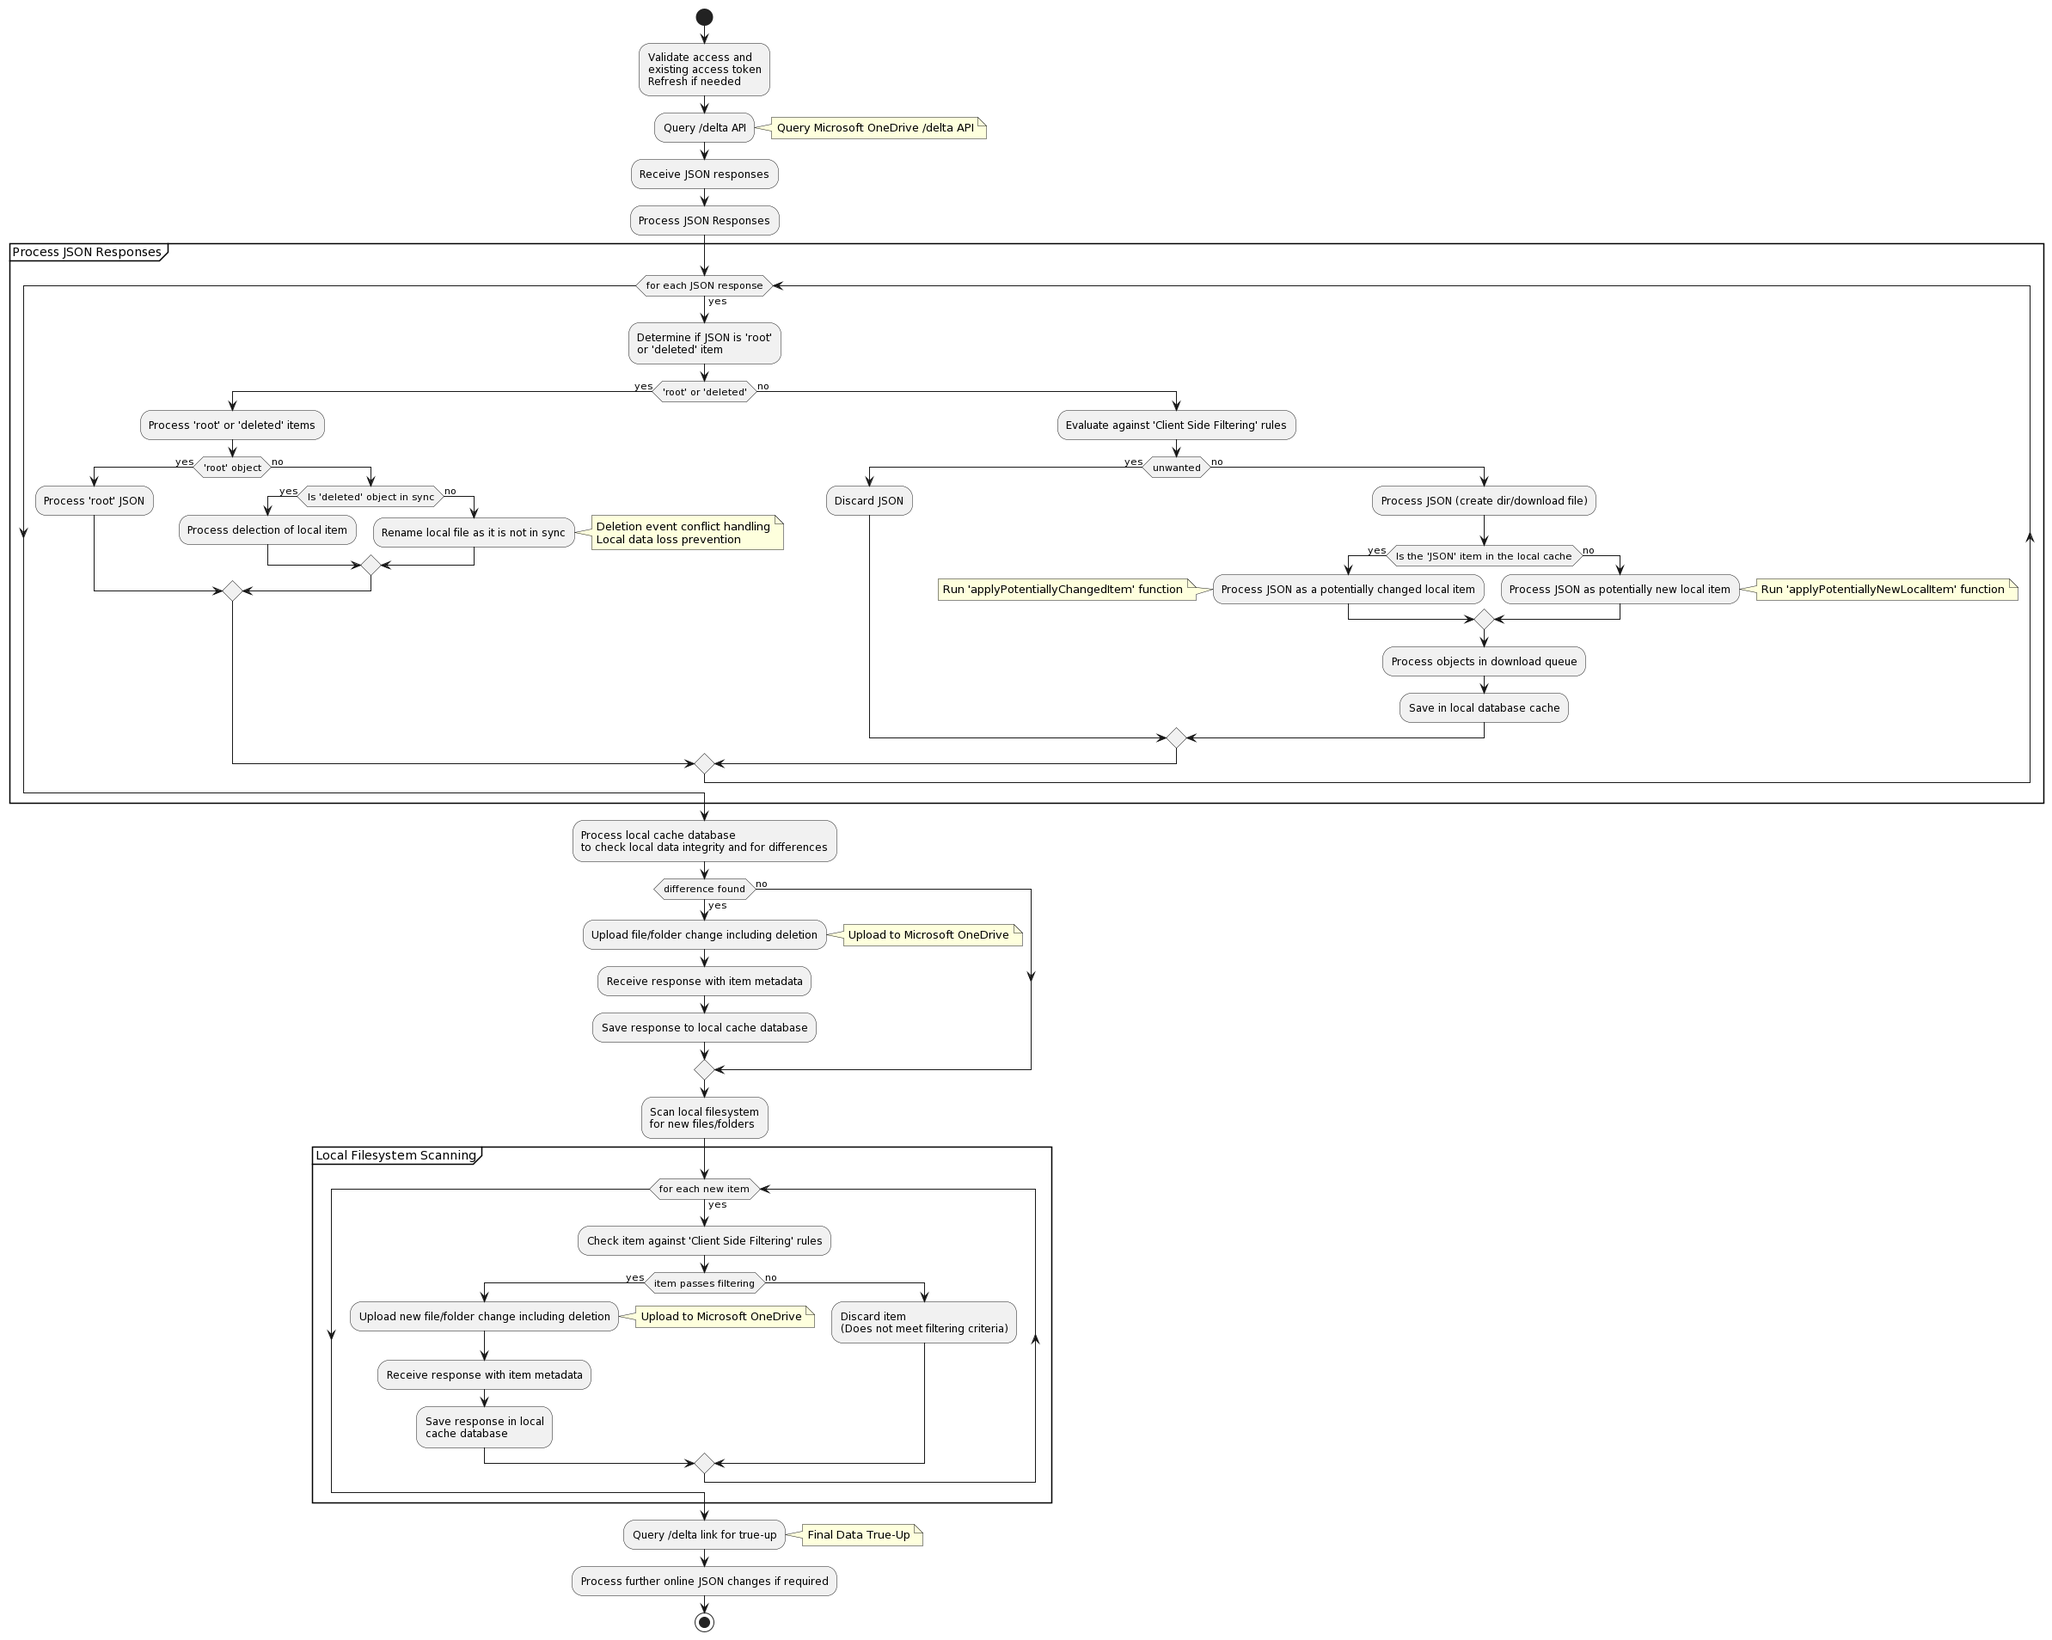
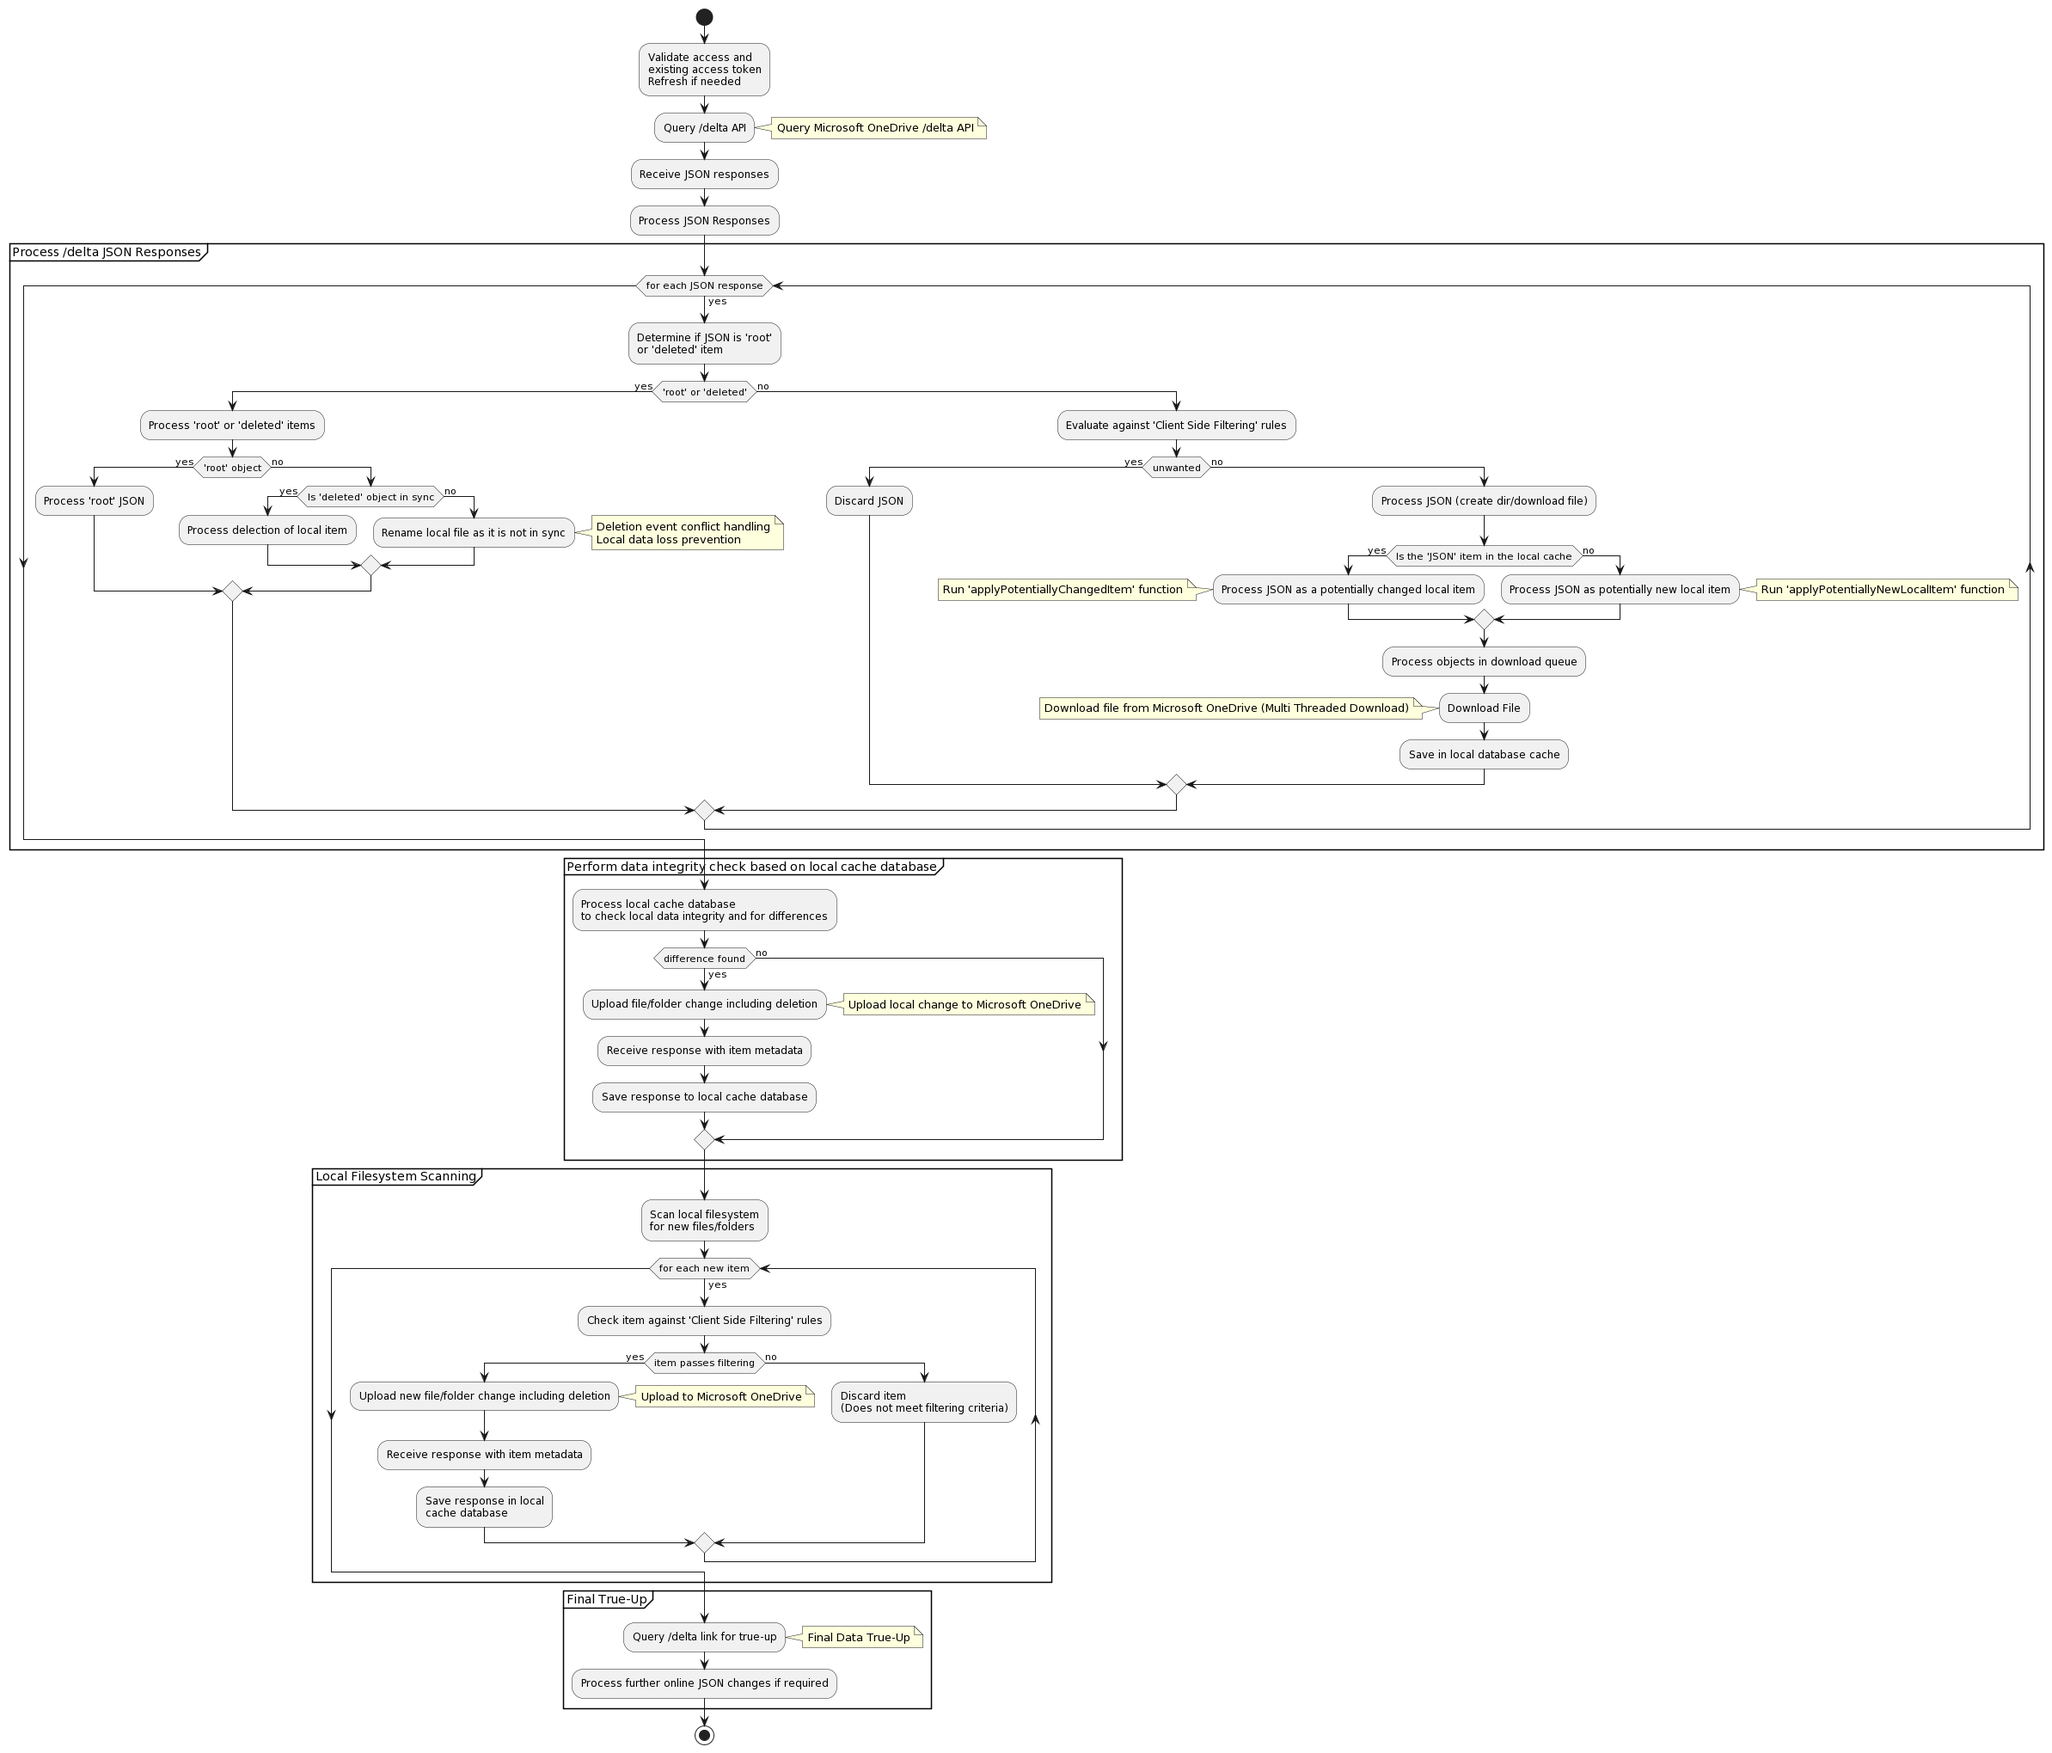
Update architecture documentation
* Update architecture documentation

diff --git a/docs/client-architecture.md b/docs/client-architecture.md
@@ -46,6 +46,9 @@ The diagrams below show the high level process flow and decision making when run
 ### Processing a potentially changed local item
 ![applyPotentiallyChangedItem](./puml/applyPotentiallyChangedItem.png)
 
+### Download a file
+![downloadFile](./puml/downloadFile.png)
+
 ### Determining if an 'item' is syncronised between Microsoft OneDrive and the local file system
 ![Item Sync Determination](./puml/is_item_in_sync.png)
 
@@ -93,7 +96,7 @@ Due to this factor, when using `--resync` the online source is always going to b
 
 ## Client Functional Component Architecture Relationships
 
-The diagram below shows the functional relationship of application code components, and how these relate to each relevant code module within this application:
+The diagram below shows the main functional relationship of application code components, and how these relate to each relevant code module within this application:
 
 ![Functional Code Components](./puml/code_functional_component_relationships.png)
 
